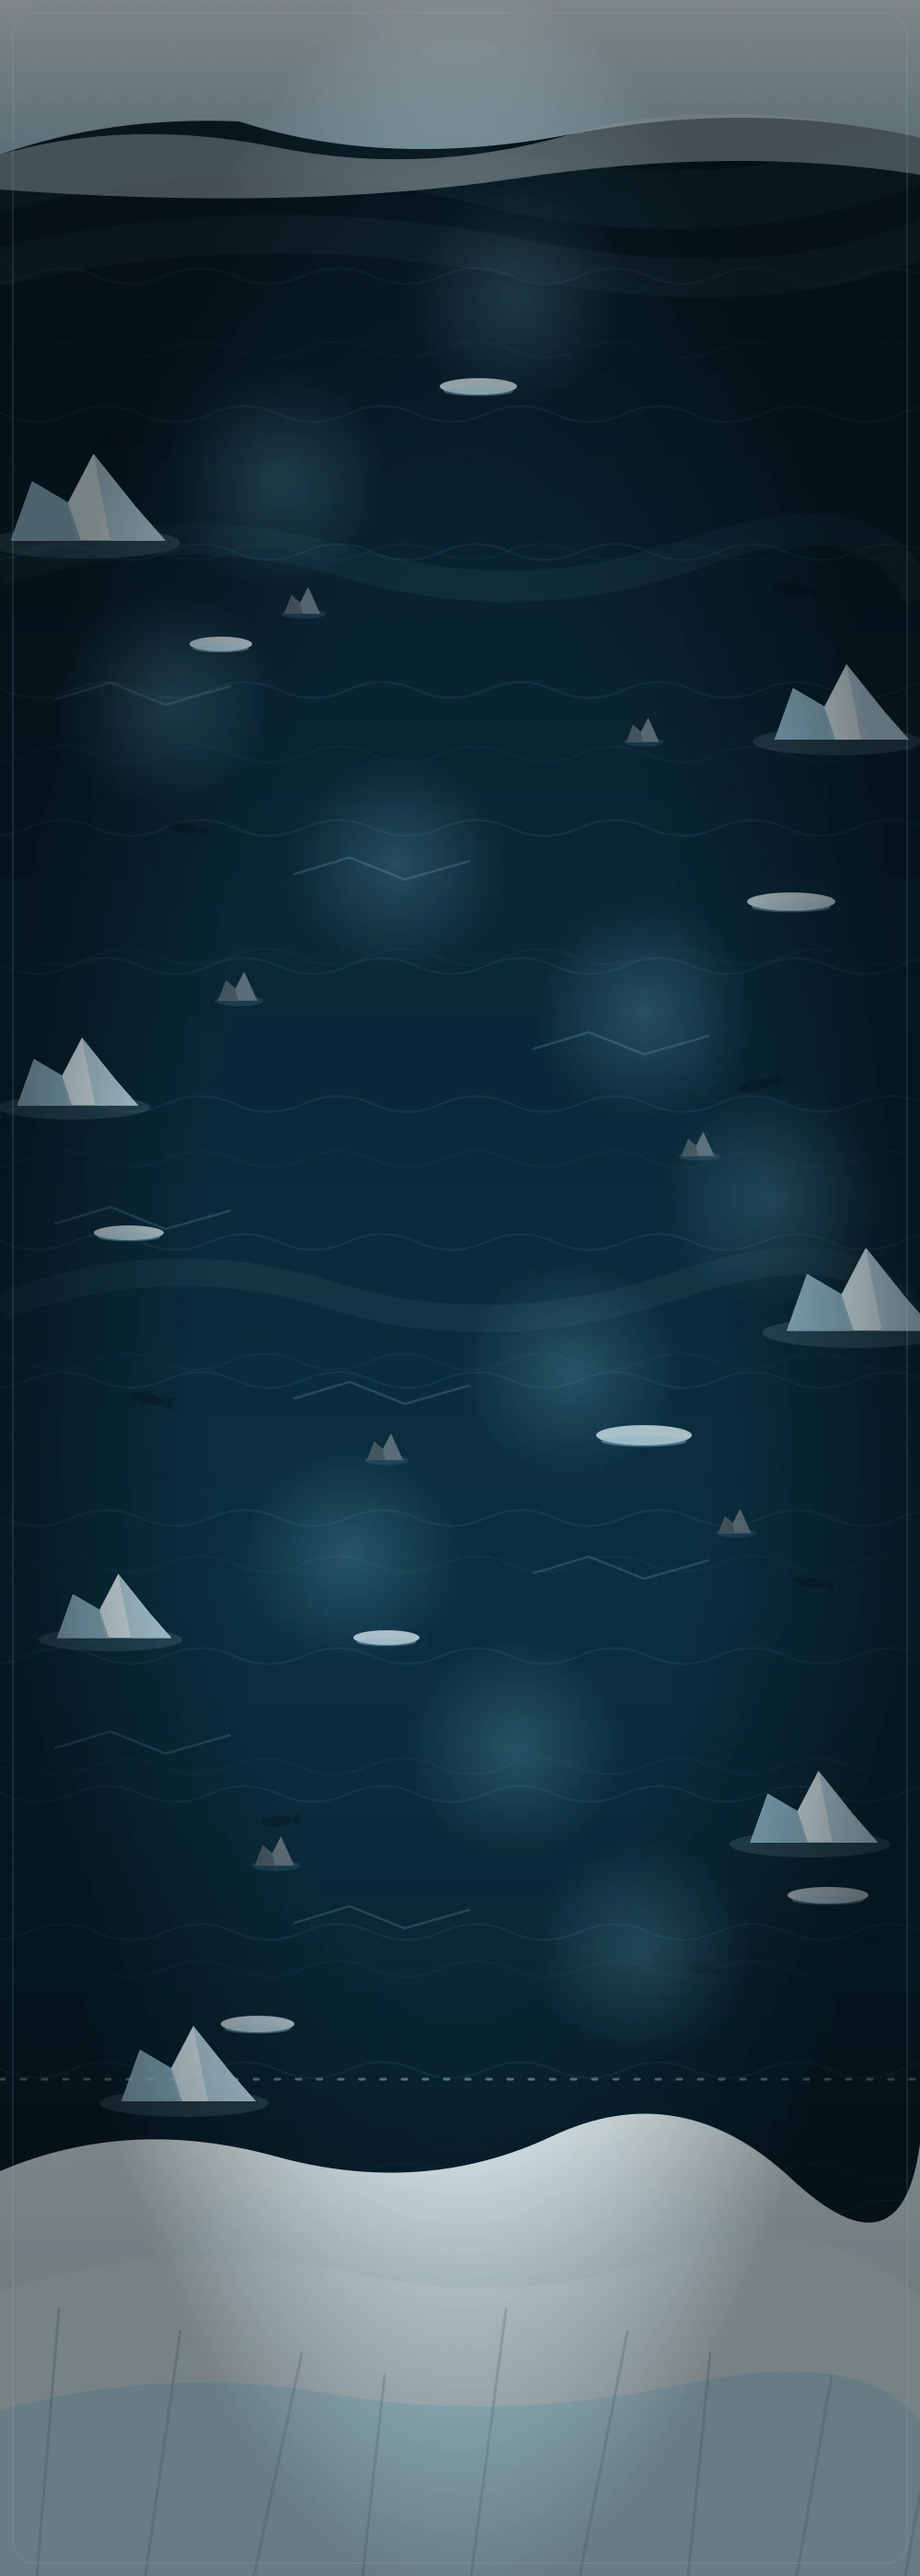
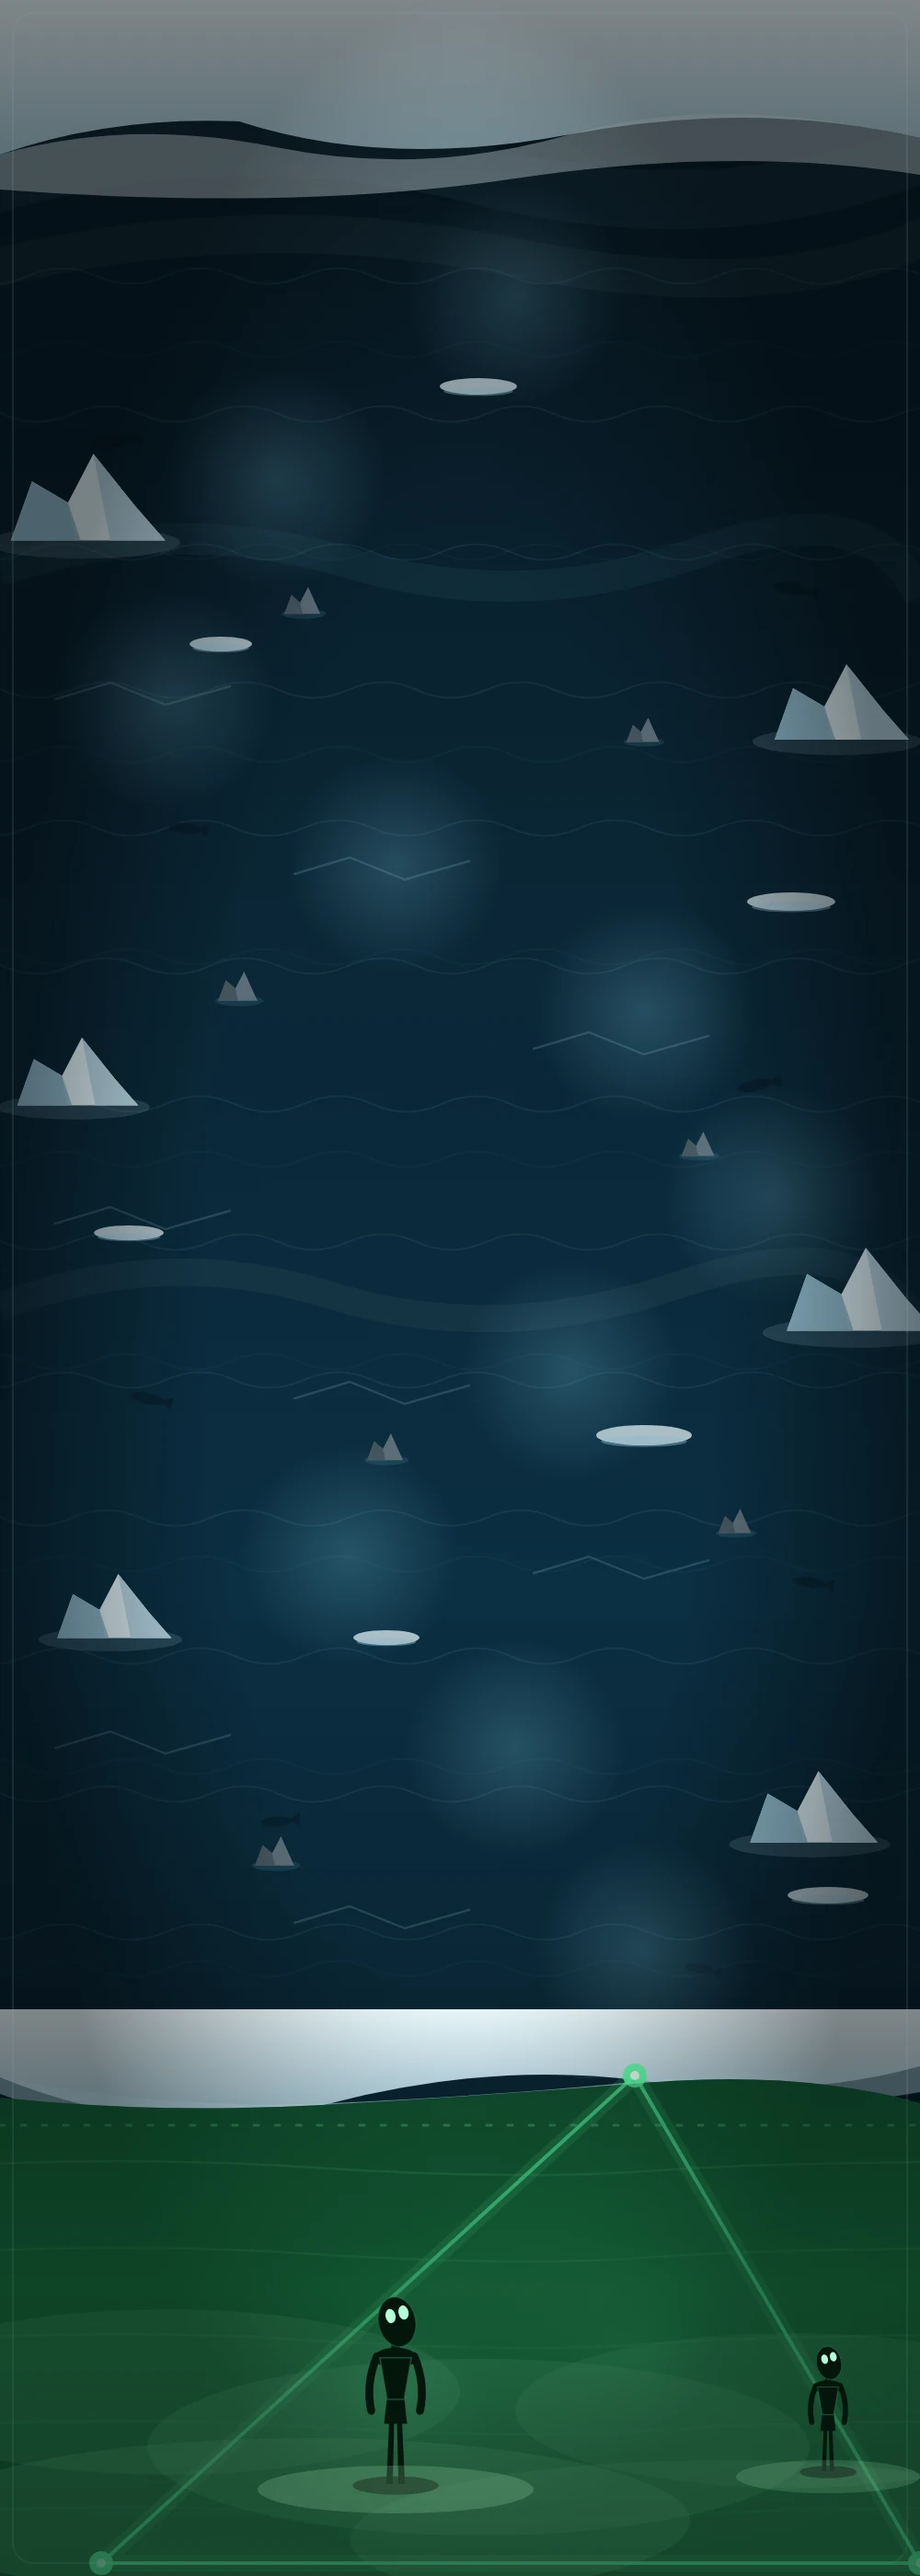
Peta Antartika berakhir di perairan Bermuda, bukan lapangan es
Ujung selatan peta Antartika sebelumnya berupa lapangan es (bongkahan es besar
dengan retakan). Itu membuat pratinjau Bermuda tidak terasa sebagai perairan
berikutnya. Sekarang ujung peta berubah menjadi perairan Segitiga Bermuda.

Perubahan di `2_Aset_dan_Konten/tools/generate_peta_svg.js`:

- Lapangan es selatan diganti air hijau zamrud (gradien `lautBermuda`), ombak
  hijau, kabut, segitiga bercahaya, dan dua siluet alien. Fungsi baru `alien()`
  menggambar humanoid kurus berkepala memanjang dengan mata menyala.
- Tepi lapisan es terakhir dipertahankan tipis di y=2280 sebagai batas tegas
  antara es Antartika dan air Bermuda, ditambah garis putus-putus hijau.
- Bongkahan es di y=2260 dihapus karena tertutup tepi es tersebut.
- Siluet alien digambar setelah vinyet dan koreksi warna agar tetap tegas; kabut
  hijau justru digambar sebelum alien (kalau dibalik, tubuh alien tertutup).
- Koreksi warna `koreksiBermuda` ditambahkan di atas vinyet: vinyet tema terang
  berwarna biru `#2F7EA0` sehingga air hijau di tepi terbaca teal.

`generate_tema_terang.py` mendapat padanan terang untuk seluruh warna Bermuda
sehingga tema terang tetap hijau (bukan biru) dengan siluet alien yang kontras.

`optimalkan_aset.py` kini merender SVG lewat Chrome/Edge headless bila cairosvg
tidak tersedia (di Windows pustaka cairo sering tidak ada). Selain itu generator
peta tidak lagi menulis SVG ke `app/src/main/assets/peta`, karena APK hanya
memuat `peta_*.webp` (dijaga AsetPerformaTest).
[…]

Changed region(s): [[0.0, 0.7768, 1.0, 1.0]]

diff --git a/2_Aset_dan_Konten/tools/generate_peta_svg.js b/2_Aset_dan_Konten/tools/generate_peta_svg.js
@@ -53,6 +53,27 @@ function rock(x, y, k = 1) {
   </g>`;
 }
 
+// Siluet alien Segitiga Bermuda: humanoid kurus, kepala memanjang, lengan panjang.
+// (x, y) adalah titik kaki. k = skala (1 -> tinggi ~260 px di ruang peta 1000 x 2800).
+function alien(x, y, k = 1) {
+  return `<g transform="translate(${x} ${y}) scale(${k})">
+    <ellipse cx="0" cy="2" rx="60" ry="13" fill="#020C06" opacity=".6"/>
+    <path d="M-13 0L-9 -86L-2 -86L-4 0Z" fill="#04150C"/>
+    <path d="M13 0L9 -86L2 -86L4 0Z" fill="#04150C"/>
+    <path d="M-16 -84L16 -84L12 -120L-12 -120Z" fill="#04150C"/>
+    <path d="M-12 -118L12 -118L22 -176L-22 -176Z" fill="#04150C"/>
+    <ellipse cx="0" cy="-176" rx="30" ry="14" fill="#04150C"/>
+    <path d="M-26 -178Q-42 -140 -34 -102" stroke="#04150C" stroke-width="11" fill="none" stroke-linecap="round"/>
+    <path d="M26 -178Q42 -140 34 -102" stroke="#04150C" stroke-width="11" fill="none" stroke-linecap="round"/>
+    <path d="M-7 -176L7 -176L5 -204L-5 -204Z" fill="#04150C"/>
+    <ellipse cx="2" cy="-226" rx="26" ry="35" fill="#04150C" transform="rotate(-12 2 -226)"/>
+    <ellipse cx="-7" cy="-234" rx="7" ry="10" fill="#B4FFD8" transform="rotate(-12 -7 -234)"/>
+    <ellipse cx="11" cy="-239" rx="7" ry="10" fill="#B4FFD8" transform="rotate(-12 11 -239)"/>
+    <path d="M-12 -118L12 -118L22 -176L-22 -176Z" fill="none" stroke="#2E7A55" stroke-opacity=".55" stroke-width="2"/>
+    <ellipse cx="2" cy="-226" rx="26" ry="35" fill="none" stroke="#2E7A55" stroke-opacity=".45" stroke-width="2" transform="rotate(-12 2 -226)"/>
+  </g>`;
+}
+
 function fishShadow(x, y, r, k = 1) {
   return `<g transform="translate(${x} ${y}) rotate(${r}) scale(${k})" opacity=".32">
     <ellipse rx="24" ry="8" fill="#030E14"/>
@@ -206,6 +227,21 @@ addA(`<defs>
     <stop offset=".55" stop-color="#000000" stop-opacity="0"/>
     <stop offset="1" stop-color="#000000" stop-opacity=".46"/>
   </radialGradient>
+  <linearGradient id="lautBermuda" x1="0" y1="0" x2="0" y2="1">
+    <stop offset="0" stop-color="#0B3A22"/>
+    <stop offset=".42" stop-color="#12592F"/>
+    <stop offset="1" stop-color="#05170D"/>
+  </linearGradient>
+  <radialGradient id="pendarBermuda">
+    <stop offset="0" stop-color="#5CFFA8" stop-opacity=".30"/>
+    <stop offset=".55" stop-color="#2FA96A" stop-opacity=".13"/>
+    <stop offset="1" stop-color="#2FA96A" stop-opacity="0"/>
+  </radialGradient>
+  <linearGradient id="koreksiBermuda" x1="0" y1="0" x2="0" y2="1">
+    <stop offset="0" stop-color="#176B42" stop-opacity=".30"/>
+    <stop offset=".55" stop-color="#176B42" stop-opacity=".36"/>
+    <stop offset="1" stop-color="#176B42" stop-opacity=".45"/>
+  </linearGradient>
 </defs>`);
 
 addA(`<rect width="${W}" height="${H}" fill="url(#lautEs)"/>`);
@@ -232,10 +268,11 @@ for (let y = 380; y < H; y += 220) addA(wave(y, 0.045, (Math.round(y / 220) % 2)
   [160, 1520, 12, .75], [880, 1720, 8, .7], [300, 1980, -6, .7], [760, 2140, 10, .65],
 ].forEach((f) => addA(fishShadow(...f)));
 
-// Gunung es besar dan bongkahan es di sisi rute.
+// Gunung es besar dan bongkahan es di sisi rute. Bongkahan di y=2260 dihapus karena
+// tertutup tepi lapisan es yang menjadi batas perairan Bermuda.
 [
   [90, 560, 1.15], [910, 780, 1.0], [80, 1180, .9], [930, 1420, 1.1],
-  [120, 1760, .85], [880, 1980, .95], [200, 2260, 1.0],
+  [120, 1760, .85], [880, 1980, .95],
 ].forEach((p) => addA(iceberg(...p)));
 
 [
@@ -264,30 +301,77 @@ stageTitikAntartika.forEach(([x, y]) => {
   addA(`<circle cx="${x}" cy="${y}" r="120" fill="url(#glowEs)"/>`);
 });
 
-// Lapangan es di ujung selatan.
-addA(`<line x1="0" y1="2260" x2="1000" y2="2260" stroke="#BFE6F2" stroke-opacity=".45" stroke-width="3" stroke-dasharray="5 18" stroke-linecap="round"/>`);
-addA(`<path d="M0 2360Q140 2300 300 2344T600 2322T860 2368T1000 2330V2800H0Z" fill="url(#esAtas)"/>`);
-addA(`<path d="M0 2490Q200 2428 380 2470T720 2452T1000 2498V2800H0Z" fill="#DCEEF5"/>`);
-addA(`<path d="M0 2620Q180 2570 360 2602T740 2592T1000 2632V2800H0Z" fill="#BFE6F2"/>`);
-for (let i = 0; i < 9; i++) {
-  const x = 40 + i * 118;
-  addA(`<path d="M${x} 2800L${x + 24 + (i % 3) * 14} ${2510 + (i % 4) * 24}" stroke="#8DB7CA" stroke-opacity=".5" stroke-width="3" stroke-linecap="round"/>`);
+// ---------------------------------------------- Perairan Segitiga Bermuda
+// Ujung selatan peta Antartika bukan lagi lapangan es: di sini perairan Bermuda dimulai,
+// ditandai air hijau zamrud, kabut, segitiga bercahaya, dan siluet alien. Node
+// gerbangBermuda (700, 2390) berdiri di dalam segitiga ini.
+const bmAtas = 2280;
+const bmA = [690, 2256];
+const bmKiri = [110, 2786];
+const bmKanan = [1000, 2786];
+
+// Tepi lapisan es terakhir: batas tegas antara es Antartika dan air Bermuda.
+addA(`<path d="M0 ${bmAtas - 96} H1000 V${bmAtas - 34} Q860 ${bmAtas + 4} 700 ${bmAtas - 18} T360 ${bmAtas + 6} T0 ${bmAtas - 22} Z" fill="url(#esAtas)"/>`);
+addA(`<path d="M0 ${bmAtas - 22} Q180 ${bmAtas + 14} 360 ${bmAtas + 6} T700 ${bmAtas - 18} T1000 ${bmAtas - 34} V${bmAtas - 6} Q860 ${bmAtas + 20} 700 ${bmAtas + 2} T360 ${bmAtas + 24} T0 ${bmAtas - 4} Z" fill="#BFE6F2" opacity=".6"/>`);
+
+// Air hijau zamrud menutupi sisa peta ke bawah.
+addA(`<path d="M0 ${bmAtas} Q170 ${bmAtas + 18} 350 ${bmAtas + 8} T700 ${bmAtas - 16} T1000 ${bmAtas + 6} V2800 H0 Z" fill="url(#lautBermuda)"/>`);
+
+// Garis batas perairan.
+addA(`<line x1="0" y1="${bmAtas + 30}" x2="1000" y2="${bmAtas + 30}" stroke="#7CE89A" stroke-opacity=".38" stroke-width="3" stroke-dasharray="5 18" stroke-linecap="round"/>`);
+
+// Ombak hijau.
+for (let i = 0; i < 5; i++) {
+  const y = bmAtas + 76 + i * 94;
+  addA(`<path d="M-80 ${y} Q120 ${y - 14} 340 ${y} T700 ${y + 4} T1080 ${y - 6}" fill="none" stroke="#7CE89A" stroke-opacity="${(0.17 - i * 0.022).toFixed(3)}" stroke-width="2.4" stroke-linecap="round"/>`);
 }
+
+// Pendar hijau di belakang segitiga dan alien.
+addA(`<ellipse cx="690" cy="2560" rx="330" ry="230" fill="url(#pendarBermuda)"/>`);
+addA(`<ellipse cx="430" cy="2600" rx="200" ry="170" fill="url(#pendarBermuda)"/>`);
+
+// Segitiga bercahaya: halo lebar lalu garis tegas.
+addA(`<path d="M${bmA} L${bmKiri} L${bmKanan} Z" fill="#2FA96A" fill-opacity=".07" stroke="#5CFFA8" stroke-opacity=".16" stroke-width="18" stroke-linejoin="round"/>`);
+addA(`<path d="M${bmA} L${bmKiri} L${bmKanan} Z" fill="none" stroke="#5CFFA8" stroke-opacity=".82" stroke-width="4" stroke-linejoin="round"/>`);
+[bmA, bmKiri, bmKanan].forEach(([x, y]) => {
+  addA(`<circle cx="${x}" cy="${y}" r="13" fill="#5CFFA8" opacity=".9"/>`);
+  addA(`<circle cx="${x}" cy="${y}" r="5" fill="#E8FFF2"/>`);
+});
+
+// Kabut hijau di tepi bawah peta. Digambar sebelum alien agar siluetnya tetap tegas
+// (kalau kabut di atas alien, tubuhnya tertutup lapisan hijau muda dan hanya kepala terlihat).
+[
+  [180, 2600, 320, 90, 0.16], [520, 2660, 360, 96, 0.18], [860, 2620, 300, 84, 0.15],
+  [330, 2740, 420, 90, 0.2], [780, 2760, 400, 86, 0.18],
+].forEach(([x, y, rx, ry, o]) => {
+  addA(`<ellipse cx="${x}" cy="${y}" rx="${rx}" ry="${ry}" fill="#A8F0B8" opacity="${o}"/>`);
+});
+
+// Siluet alien dipindah ke akhir berkas (setelah vinyet) agar tetap tegas.
 
 addA(`<rect width="${W}" height="${H}" fill="url(#vignetteEs)"/>`);
 addA(`<rect x="14" y="14" width="${W - 28}" height="${H - 28}" rx="22" fill="none" stroke="#8FB2B8" stroke-opacity=".14" stroke-width="2"/>`);
+
+// Vinyet peta berwarna biru (#2F7EA0 di tema terang) sehingga air Bermuda di tepi terbaca
+// teal. Lapisan hijau tipis di atas vinyet mengembalikan hue hijau tanpa mengubah kerangka peta.
+addA(`<path d="M0 ${bmAtas} Q170 ${bmAtas + 18} 350 ${bmAtas + 8} T700 ${bmAtas - 16} T1000 ${bmAtas + 6} V2800 H0 Z" fill="url(#koreksiBermuda)"/>`);
+
+// Siluet alien berdiri di permukaan air, di dalam segitiga.
+addA(alien(430, 2700, 0.78));
+addA(alien(900, 2686, 0.52));
+// Kabut tipis di kaki alien saja, supaya terlihat berdiri di air.
+addA(`<ellipse cx="430" cy="2706" rx="150" ry="26" fill="#A8F0B8" opacity=".2"/>`);
+addA(`<ellipse cx="900" cy="2692" rx="100" ry="18" fill="#A8F0B8" opacity=".16"/>`);
 addA('</svg>');
 
 function tulis(nama, svg) {
-  const tujuan = [
-    path.join(ROOT, '2_Aset_dan_Konten', 'assets-source', '01_Peta_Perairan', nama),
-    path.join(ROOT, 'app', 'src', 'main', 'assets', 'peta', nama),
-  ];
-  for (const file of tujuan) {
-    fs.mkdirSync(path.dirname(file), { recursive: true });
-    fs.writeFileSync(file, svg);
-    console.log(`Tulis ${path.relative(ROOT, file)} (${svg.length} byte)`);
-  }
+  // Hanya ke assets-source. APK hanya memuat hasil render `peta_*.webp`
+  // (lihat optimalkan_aset.py); SVG di dalam APK dianggap pemborosan
+  // dan dijaga oleh AsetPerformaTest.
+  const tujuan = path.join(ROOT, '2_Aset_dan_Konten', 'assets-source', '01_Peta_Perairan', nama);
+  fs.mkdirSync(path.dirname(tujuan), { recursive: true });
+  fs.writeFileSync(tujuan, svg);
+  console.log(`Tulis ${path.relative(ROOT, tujuan)} (${svg.length} byte)`);
 }
 
 tulis('peta_perairan.svg', peta.join('\n') + '\n');

diff --git a/2_Aset_dan_Konten/tools/optimalkan_aset.py b/2_Aset_dan_Konten/tools/optimalkan_aset.py
@@ -80,16 +80,53 @@ def kecilkan_dan_thumbnail() -> tuple[int, int]:
     return n_kecil, n_thumb
 
 
-def render_peta() -> list[str]:
-    import cairosvg
+def _render_svg_png(svg_path: str, lebar: int, tinggi: int) -> Image.Image:
+    """Render SVG ke PIL. Utamakan cairosvg; bila pustaka cairo tidak ada (umum di Windows),
+    pakai Chrome/Edge headless dengan hasil yang sama (selisih < 2/255 dibanding cairosvg)."""
+    try:
+        import cairosvg  # type: ignore
 
+        png = cairosvg.svg2png(url=svg_path, output_width=lebar, output_height=tinggi)
+        return Image.open(io.BytesIO(png)).convert("RGBA")
+    except Exception:
+        pass
+
+    import subprocess
+    import tempfile
+    from urllib.request import pathname2url
+
+    kandidat = [
+        os.environ.get("CHROME_PATH", ""),
+        r"C:\Program Files\Google\Chrome\Application\chrome.exe",
+        r"C:\Program Files (x86)\Google\Chrome\Application\chrome.exe",
+        r"C:\Program Files (x86)\Microsoft\Edge\Application\msedge.exe",
+        r"C:\Program Files\Microsoft\Edge\Application\msedge.exe",
+        shutil.which("google-chrome") or "",
+        shutil.which("chromium") or "",
+        shutil.which("msedge") or "",
+    ]
+    exe = next((p for p in kandidat if p and os.path.exists(p)), None)
+    if not exe:
+        raise RuntimeError("Tidak ada cairosvg maupun Chrome/Edge untuk merender SVG")
+    with tempfile.TemporaryDirectory() as tmp:
+        keluar = os.path.join(tmp, "render.png")
+        url = "file:///" + pathname2url(os.path.abspath(svg_path)).lstrip("/")
+        subprocess.run(
+            [exe, "--headless=new", "--disable-gpu", "--hide-scrollbars",
+             "--force-device-scale-factor=1", f"--window-size={lebar},{tinggi}",
+             f"--screenshot={keluar}", url],
+            check=True, capture_output=True, timeout=180,
+        )
+        return Image.open(keluar).convert("RGBA")
+
+
+def render_peta() -> list[str]:
     d = os.path.join(SRC, "01_Peta_Perairan")
     dibuat = []
     for f in sorted(os.listdir(d)):
         if not (f.startswith("peta_") and f.endswith(".svg")):
             continue
-        png = cairosvg.svg2png(url=os.path.join(d, f), output_width=1000, output_height=2800)
-        im = Image.open(io.BytesIO(png)).convert("RGBA")
+        im = _render_svg_png(os.path.join(d, f), 1000, 2800)
         latar = Image.new("RGBA", im.size, (255, 255, 255, 255))
         latar.alpha_composite(im)
         tujuan = os.path.join(d, f[:-4] + ".webp")

diff --git a/2_Aset_dan_Konten/tools/generate_tema_terang.py b/2_Aset_dan_Konten/tools/generate_tema_terang.py
@@ -149,6 +149,22 @@ PETA_MAP = {
     "#FFD166": "#D99A00",
     "#EAF7FB": "#FFFFFF",
     "#A9CDDB": "#8EC0D3",
+    # Perairan Segitiga Bermuda di ujung selatan peta Antartika: air hijau zamrud,
+    # segitiga bercahaya, dan siluet alien. Dipetakan agar tetap hijau (bukan biru)
+    # saat tema terang, dengan kontras siluet yang cukup di atas air terang.
+    "#0B3A22": "#C4EED3",
+    "#12592F": "#A9E6C2",
+    "#05170D": "#90D7AE",
+    "#5CFFA8": "#0C7A47",
+    "#2FA96A": "#158C55",
+    "#7CE89A": "#1B8E58",
+    "#A8F0B8": "#E6FAEE",
+    "#E8FFF2": "#075C37",
+    "#04150C": "#0E4A2C",
+    "#020C06": "#0E4A2C",
+    "#2E7A55": "#0B5A36",
+    "#B4FFD8": "#0A6B43",
+    "#176B42": "#62E0A0",
 }
 
 THRESHOLD = 46
